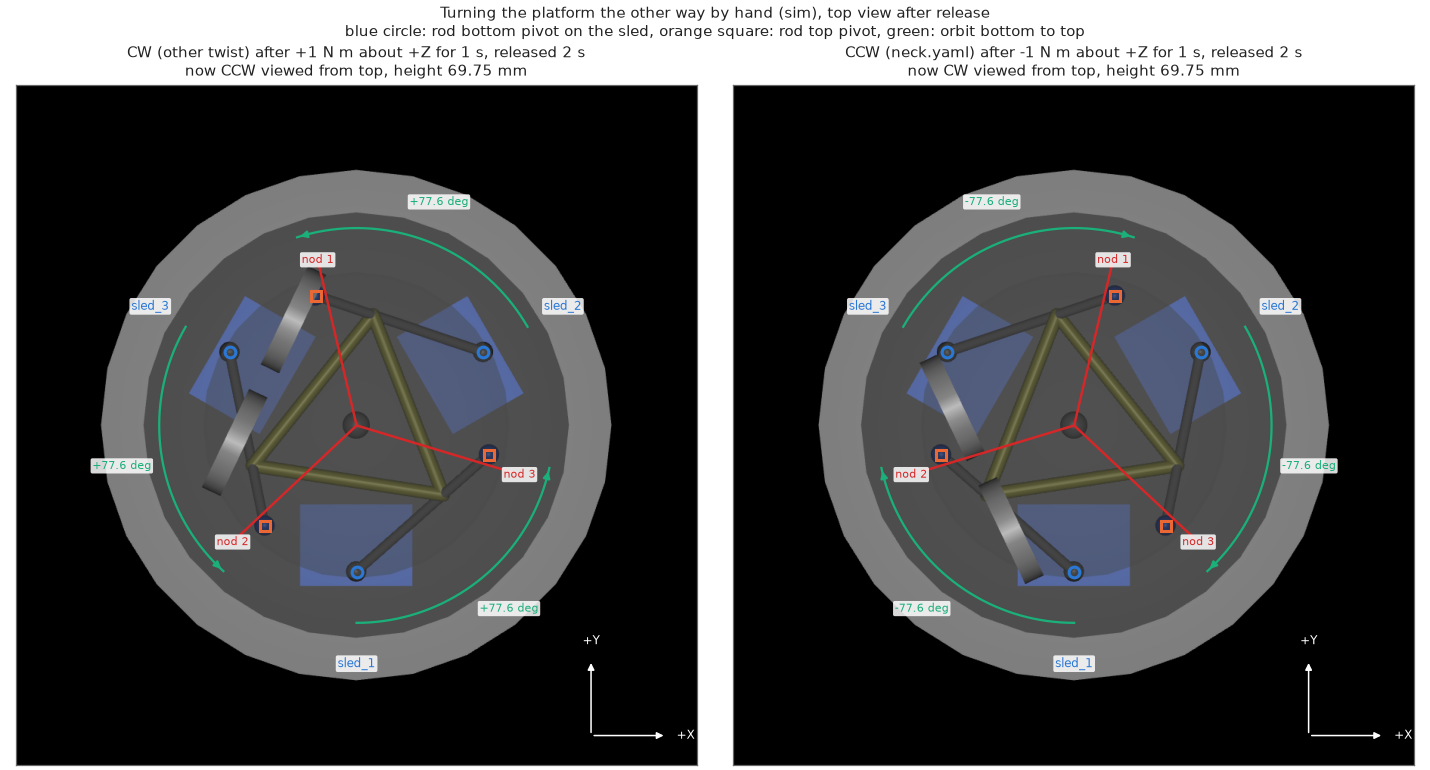
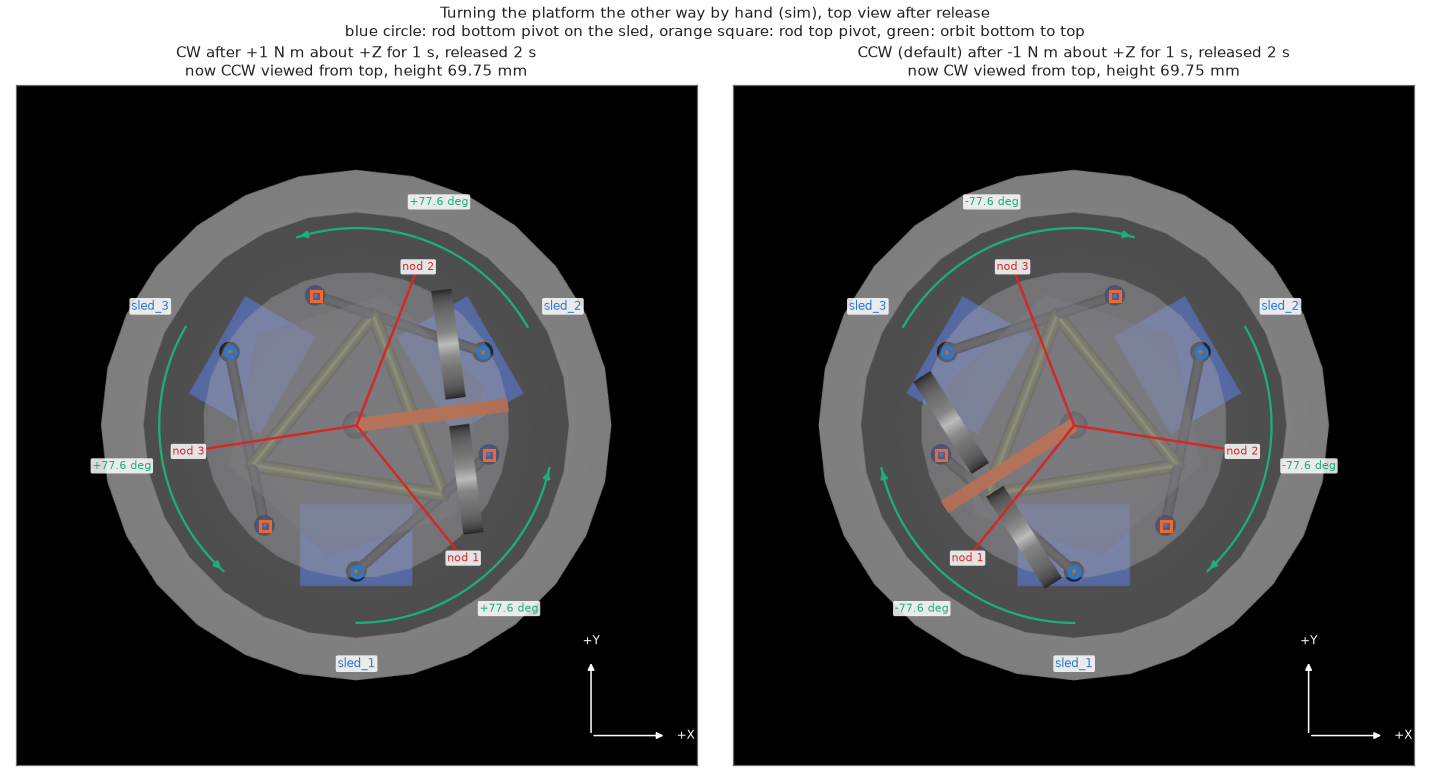
found a better way of thinking about nod lines

diff --git a/scripts/config/neck_setup.py b/scripts/config/neck_setup.py
@@ -67,7 +67,7 @@ MAIN = [
      "Type it, or fill it from the rod-end spec or your measured height with the buttons."),
     (("head", "rotation_deg"), "Head rotation", "deg", 1, 1,
      "Which way the head faces on the platform: 0 is centre → rod end 1, + is CCW seen from above.\n"
-     "Roll and pitch are in this frame. A head on a nod line gets the most graceful pitch one way.\n"
+     "Roll and pitch are in this frame. Facing the up end of a nod line gives the most graceful pitch up, the down end pitch down.\n"
      "Your robot, your call."),
 ]
 OPENSCAD = [
@@ -179,19 +179,24 @@ def load_sweep(cfg):
     return common.graceful_ugly(common.to_frame(a, ck["head_zero_deg"])), ck   # by head.rotation_deg
 
 
-SMOOTH = 5   # deg either side, so one noisy sweep point can't pick the head rotation
+METHODS = ("nod line", "best compromise")   # how Find best picks the head rotation
 
 
-def best_rotation(sims, near):
-    """Head rotation (deg) where twisting gives the strongest graceful look-up one way and look-down the other:
-    the largest min(best up, best down) over both poles, smoothed SMOOTH deg either side. The neck's symmetry
-    repeats it; of the equal ones, the one nearest near."""
-    k = np.ones(2 * SMOOTH + 1) / (2 * SMOOTH + 1)
-    sm = lambda v: np.convolve(np.r_[v[360 - SMOOTH:360], v[:360], v[:SMOOTH]], k, "valid")
-    best = {w: np.maximum(*(sm(sims[p, 0][0]["graceful", w]) for p in ("CW", "CCW"))) for w in ("up", "down")}
-    score = np.minimum(best["up"], best["down"])
-    tops = np.flatnonzero(score >= score.max() - 0.05)
-    return int(min(tops, key=lambda d: abs((d - near + 180) % 360 - 180)))
+def head_lines(cfg, pole, method):
+    """The three head.rotation_deg (120 deg apart) where the neck twisted `pole` looks up, by `method`:
+    nod line: the up ends of `pole`'s nod lines. `pole` looks up as far as it can; the other twist looks down, a little
+    short of its best. The down ends, 180 deg round, do the reverse (same platform pose, head turned round).
+    best compromise: `pole` looks up and the other twist looks down about equally. That's halfway between the
+    nod line (jam/2 from a rod end) and the other twist's look-down line (60 - jam/2), so always 30 deg from a
+    rod end whatever the geometry: the two twists are mirror images. Neither needs the sim."""
+    if method == "nod line":
+        return S.nod_lines(cfg, pole)
+    s = 1 if pole == "CW" else -1
+    return [(30 * s + 120 * k + 180) % 360 - 180 for k in range(3)]
+
+
+def nearest(lines, rot):
+    return min(lines, key=lambda n: abs((n - rot + 180) % 360 - 180))
 
 
 def call(gu, deg):
@@ -367,7 +372,7 @@ def draw_pitch(fig, cfg, sims):
         ax.set_title(f"Twisted {pole}", fontsize=10, pad=12)
     axes[1].legend(loc="upper left", bbox_to_anchor=(1.05, 1.0), fontsize=8, frameon=False)
     fig.text(0.01, 0.01, "Angle: head rotation (0 = rod end 1, CCW from above).  Distance: largest pitch (deg).  "
-             "Green: your head.  Gold: nod lines.", fontsize=8, color="#555555")
+             "Green: your head.  Gold: nod lines (up ends).", fontsize=8, color="#555555")
 
 
 # ------------------------------------------------------------------------------------------- widgets
@@ -429,7 +434,6 @@ class App:
         self.root = root
         self.q = queue.Queue()
         self.busy = False
-        self.apply_best = False
         self.sims = {}
         self.loaded = {}   # sweep path -> (graceful_ugly, checks)
         self.vars = {}
@@ -471,10 +475,12 @@ class App:
         st.map("Best.TButton", background=[("active", "#b5e2b5")])
         b = ttk.Button(row, text="Find best", style="Best.TButton", command=self.to_best); b.pack(side="left", padx=2)
         Tip(b, self.best_tip)
-        ttk.Label(row, text="  on nod line:").pack(side="left")
-        for pole in ("CW", "CCW"):
-            b = ttk.Button(row, text=pole, width=5, command=lambda p=pole: self.to_nod(p)); b.pack(side="left", padx=2)
-            Tip(b, lambda p=pole: self.nod_tip(p))
+        self.method = tk.StringVar(value=METHODS[0])
+        cb = ttk.Combobox(row, textvariable=self.method, values=METHODS, state="readonly", width=15); cb.pack(side="left", padx=2)
+        Tip(cb, "How Find best picks the head rotation, for the twist selected below.\n"
+                "nod line: the up end of its nearest nod line. That twist looks up as far as it can; the other twist looks down,\n"
+                "a little short of its best. The down end, 180° round, does the reverse.\n"
+                "best compromise: that twist looks up and the other looks down about equally; a few degrees off the nod line.")
         row = ttk.Frame(g); row.pack(fill="x")
         ttk.Label(row, text="Twisted:").pack(side="left")
         for pole in ("CW", "CCW"):
@@ -707,45 +713,40 @@ class App:
             return messagebox.showinfo("Rest height", "Enter the measured height first.")
         self.set_field("Rest height", round(meas - S.pivot_z(c) * 1000, 2))
 
-    def nod_tip(self, pole):
-        c = self.cfg()
-        try:
-            nods = S.nod_lines(c, pole)
-        except (TypeError, ValueError, ZeroDivisionError):
-            return None
-        return (f"Turn the head onto the {pole} nod line nearest it.\n{pole} nod lines: "
-                + ", ".join(f"{n:.1f}°" for n in sorted(nods)) + "\nThey move with the jam.")
-
     def have_sims(self):
         return all((p, 0) in self.sims for p in ("CW", "CCW"))
 
     def best_tip(self):
-        c = self.cfg()
-        if c is None or not self.have_sims():
-            return ("Turn the head to where twisting CW or CCW gives the strongest graceful look-up and look-down.\n"
-                    "Needs the sim for these values: it runs it first (about 2 minutes).")
-        d = best_rotation(self.sims, c["head"]["rotation_deg"])
-        ways = [f"twisted {p}: up {self.sims[p, 0][0]['graceful', 'up'][d]:.1f}°, "
-                f"down {self.sims[p, 0][0]['graceful', 'down'][d]:.1f}°" for p in ("CW", "CCW")]
-        return (f"Turn the head to {d}°, where twisting CW or CCW gives the strongest graceful look-up and look-down:\n"
-                + "\n".join(ways) + "\nIt repeats round the platform; this is the one nearest your head now.")
+        c, pole, method = self.cfg(), self.pole.get(), self.method.get()
+        other = "CCW" if pole == "CW" else "CW"
+        if c is None:
+            return "Turn the head to where the selected twist looks up. Fix the values first."
+        try:
+            lines = head_lines(c, pole, method)
+        except (ValueError, ZeroDivisionError):
+            return "Turn the head to where the selected twist looks up. The rods don't fit these values."
+        d = nearest(lines, c["head"]["rotation_deg"])
+        text = (f"Turn the head to {d:.1f}°, the up end of the nearest {pole} nod line. Twisted {pole} it looks up as far as "
+                f"it can; twisted {other} it looks down. The down end, {d % 360 - 180:.1f}°, does the reverse.\n"
+                if method == "nod line" else
+                f"Turn the head to {d:.1f}°, where twisted {pole} looks up and twisted {other} looks down about equally.\n")
+        text += "The other two, 120° round, are the same: " + ", ".join(f"{n:.1f}°" for n in sorted(lines) if n != d) + "."
+        if self.have_sims():
+            i = int(round(d)) % 360
+            text += "\nThere, graceful: " + ";  ".join(
+                f"twisted {p} up {self.sims[p, 0][0]['graceful', 'up'][i]:.1f}°, down {self.sims[p, 0][0]['graceful', 'down'][i]:.1f}°"
+                for p in (pole, other))
+        return text
 
     def to_best(self):
         c = self.cfg()
         if c is None:
             return
-        if not self.have_sims():
-            self.apply_best = True   # set it when the sim is done
-            return self.run_sims(False)
-        self.set_field("Head rotation", best_rotation(self.sims, c["head"]["rotation_deg"]))
-
-    def to_nod(self, pole):
-        c = self.cfg()
-        if c is None:
-            return
-        rot = c["head"]["rotation_deg"]
-        n = min(S.nod_lines(c, pole), key=lambda n: abs((n - rot + 180) % 360 - 180))
-        self.set_field("Head rotation", round(n, 1))
+        try:
+            lines = head_lines(c, self.pole.get(), self.method.get())
+        except (ValueError, ZeroDivisionError):
+            return messagebox.showwarning("Head", "The rods don't fit these values, so there are no nod lines.")
+        self.set_field("Head rotation", round(nearest(lines, c["head"]["rotation_deg"]), 1))
 
     def run_sims(self, sure):
         c = self.cfg()
@@ -793,9 +794,6 @@ class App:
                     self.busy = False
                     self.status.config(text="done" if kind == "sim_done" else f"failed: {a}")
                     self.refresh()
-                    if self.apply_best and self.have_sims():
-                        self.to_best()
-                    self.apply_best = False
                 elif kind == "plot":
                     m = re.match(r"sweep (\d+)/(\d+)", a)
                     self.plot_status.config(text=f"{m.group(1)} of {m.group(2)} sweeps done" if m else a[:80])

diff --git a/scripts/plots/renders.py b/scripts/plots/renders.py
@@ -52,8 +52,11 @@ def side_cam(heading):
 
 
 def nods_at_rest(sim):
-    """Nod line orientations (deg, platform frame) from the sim's rod twist, which must be at rest."""
-    return [st + ob / 2 - 90 for st, ob in zip(sim.cfg["sled"]["start_deg"], sim.orbit())]
+    """Nod line up ends (deg, platform frame), each bisecting a rod seen from above, from the sim's rod twist with the sleds
+    at their start positions. World angle less the platform's yaw: ~0 at rest, ~150 deg after it is turned by hand."""
+    R = sim.d.body("platform").xmat.reshape(3, 3)
+    yaw = math.degrees(math.atan2(R[1, 0], R[0, 0]))
+    return [st + ob / 2 - 90 - yaw for st, ob in zip(sim.cfg["sled"]["start_deg"], sim.orbit())]
 
 
 def top_panel(ax, img, sim, label, nods):
@@ -100,7 +103,7 @@ def run(book, cfgs, label, poses):
         top_panel(ax, snap(sim, r, "top"), sim, f"{label[d]} viewed from top, height {sim.height_mm():.2f} mm", nods_at_rest(sim))
     book.save(fig, F_, "render_rest_top", "Rest pose from the top, both twists",
               "Sim render looking straight down (orthographic) at rest, platform and head disk drawn see-through; eyes and orange stripe: the head at neck.yaml's head.rotation_deg (0 = rod end 1). The twist "
-              "angle printed on each green arc is measured in the sim. " + key + "; red: nod lines.",
+              "angle printed on each green arc is measured in the sim. " + key + "; red: nod lines (up ends).",
               title="Rest pose from the top (sim render; white eyes and orange stripe: the head)\n" + key, dpi=110)
 
     fig, axes = plt.subplots(1, len(order), figsize=(6.5 * len(order), 7), constrained_layout=True, squeeze=False)
@@ -117,7 +120,7 @@ def run(book, cfgs, label, poses):
                   f"now {S.direction(sim.orbit())} viewed from top, height {sim.height_mm():.2f} mm", nods_at_rest(sim))
     book.save(fig, F_, "render_turned_by_hand", "Platform turned the other way by hand (sim)",
               "Each twist after a 1 N m torque about the vertical axis is applied to the platform for 1 s against its twist "
-              "(sleds held) and then released for 2 s; top view after release. " + key + "; red: nod lines of the new twist.",
+              "(sleds held) and then released for 2 s; top view after release. " + key + "; red: nod lines (up ends) of the new twist.",
               title="Turning the platform the other way by hand (sim), top view after release\n" + key, dpi=110)
 
     rows = sorted({p["pose"] for p in poses}, key=lambda s: [q["pose"] for q in poses].index(s))
@@ -143,6 +146,6 @@ def run(book, cfgs, label, poses):
                          f"off {math.hypot(*pos[:2]) * 1000:.1f} mm", fontsize=10)
     book.save(fig, F_, "render_poses", "Rest, largest graceful pitch up and down (sim renders)",
               "For each twist, the head at neck.yaml's head.rotation_deg: the rest pose and the sweep points with the largest "
-              "graceful pitch up and down at that head orientation, re-driven in the sim. Red: nod lines (at rest). Top view and a side "
+              "graceful pitch up and down at that head orientation, re-driven in the sim. Red: nod lines (up ends, at rest). Top view and a side "
               "view along the head's left axis; orange arrow: the head's forward axis.",
               title="Rest, largest graceful pitch up and down, head at head.rotation_deg (sim renders)", dpi=90)

diff --git a/scripts/config/test_neck_setup.py b/scripts/config/test_neck_setup.py
@@ -55,16 +55,22 @@ def test_yaml_text():
     assert N.yaml_text(20.0, "deg") == "20"
 
 
-def test_best_rotation_picks_the_balanced_peak_nearest():
-    h = N.np.arange(361)
-    up = 10 + 2 * N.np.cos(N.np.radians(3 * (h - 30)))     # peaks at 30, 150, 270
-    down = 10 + 2 * N.np.cos(N.np.radians(3 * (h - 90)))   # peaks at 90, 210, 330
-    weak = N.np.zeros(361)
-    sims = {("CW", 0): ({("graceful", "up"): up, ("graceful", "down"): weak}, {}),
-            ("CCW", 0): ({("graceful", "up"): weak, ("graceful", "down"): down}, {})}
-    # min(up, down) peaks where the two cross, every 60 deg from 0
-    assert N.best_rotation(sims, 50) == 60
-    assert N.best_rotation(sims, -170) == 180
+def test_head_lines():
+    for pole in ("CW", "CCW"):
+        assert N.head_lines(CFG, pole, "nod line") == S.nod_lines(CFG, pole)
+    assert sorted(N.head_lines(CFG, "CW", "best compromise")) == [-90, 30, 150]
+    assert sorted(N.head_lines(CFG, "CCW", "best compromise")) == [-150, -30, 90]
+    # the compromise is halfway between the CW nod line and CCW's look-down line (its nod line + 60)
+    cw_nod, ccw_down = S.nod_lines(CFG, "CW")[0], S.nod_lines(CFG, "CCW")[0] + 60
+    assert N.head_lines(CFG, "CW", "best compromise")[0] == pytest.approx((cw_nod + ccw_down) / 2)
+
+
+def test_nearest_wraps_round():
+    lines = [38.4, 158.4, -81.6]
+    assert N.nearest(lines, 20) == 38.4
+    assert N.nearest(lines, 200) == 158.4
+    assert N.nearest(lines, -100) == -81.6
+    assert N.nearest(lines, -170) == 158.4   # 31.6 deg away across the wrap, not 151.6
 
 
 def test_yaml_set_fills_and_clears_an_optional_value():

diff --git a/README.md b/README.md
@@ -145,9 +145,14 @@ The system is non-trivial, so I used the simulation to study the behaviour.
   - **Resting pose**: the sleds evenly spaced at 120°, and the platform level.
   - **CW state**: looking from the top, the manual clockwise torsioning of the neck joint to a stable pose.
   - **CCW state**: looking from the top, the manual counter-clockwise torsioning of the neck joint to a stable pose.
-  - **Nod line**: in the _resting pose_, nod lines lie halfway between each sled linkage and its matching upper platform linkage.
-    - A head facing along a nod line can make its largest graceful pitch in either up or down.
-    - A head facing 60° left or right of a _nod line_ has the opposite graceful pitch allowance.
+  - **Nod lines**: Three specific lines that cross the upper platform through its centre, equal distances apart.
+    - Each line sits halfway between a sled linkage and its matching upper platform linkage.
+    - Pivot actions along these lines are more _graceful_ and can also go significantly further when doing an _ugly_ movement.
+    - They are called "nod lines" because the head needs to be facing along one of the lines in order to be able to nod properly.
+    - One side of the _nod line_ is better at looking up, the other better at looking down, referred to as the _up end_ and the _down end_.
+    - Nod lines are different per the _CW/CCW state_.
+    - It's not exact, but twisting the top to change _CW/CCW states_ is basically sufficient to make a look-up orientated head become a look-down orientated head.
+
 
 ### 5.1 Overview
 We essentially have a tensegrity-like prism for a neck joint, which transforms the sled orientation into a platform roll/pitch. This system is not perfect; it performs some motions really well, and others quite poorly. And that's actually OK, provided we get the system behaving well where it counts.
@@ -231,7 +236,7 @@ The main trade-off is that the head movement becomes less centred as the jam ang
 
 ### 5.5 The look up vs look down trade-off
 
-Depending on configuration, the neck joint either looks up better or looks down better, depending on being aligned with a nod line, or being 60° off.
+Depending on which end of a nod line the head faces, the neck joint either looks up better or looks down better.
 
 <img src="docs/default_plot_output/18_pitch_by_head_orientation.png" alt="Largest pitch by head orientation, CW and CCW twist" width="900">
 
